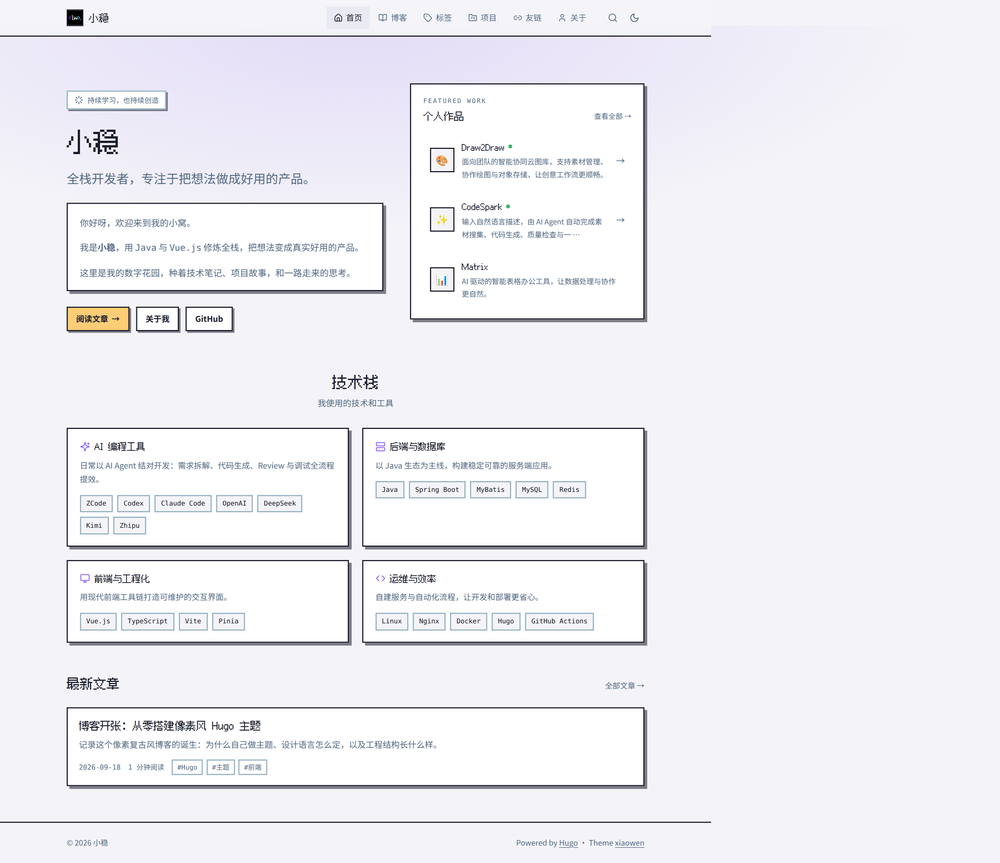
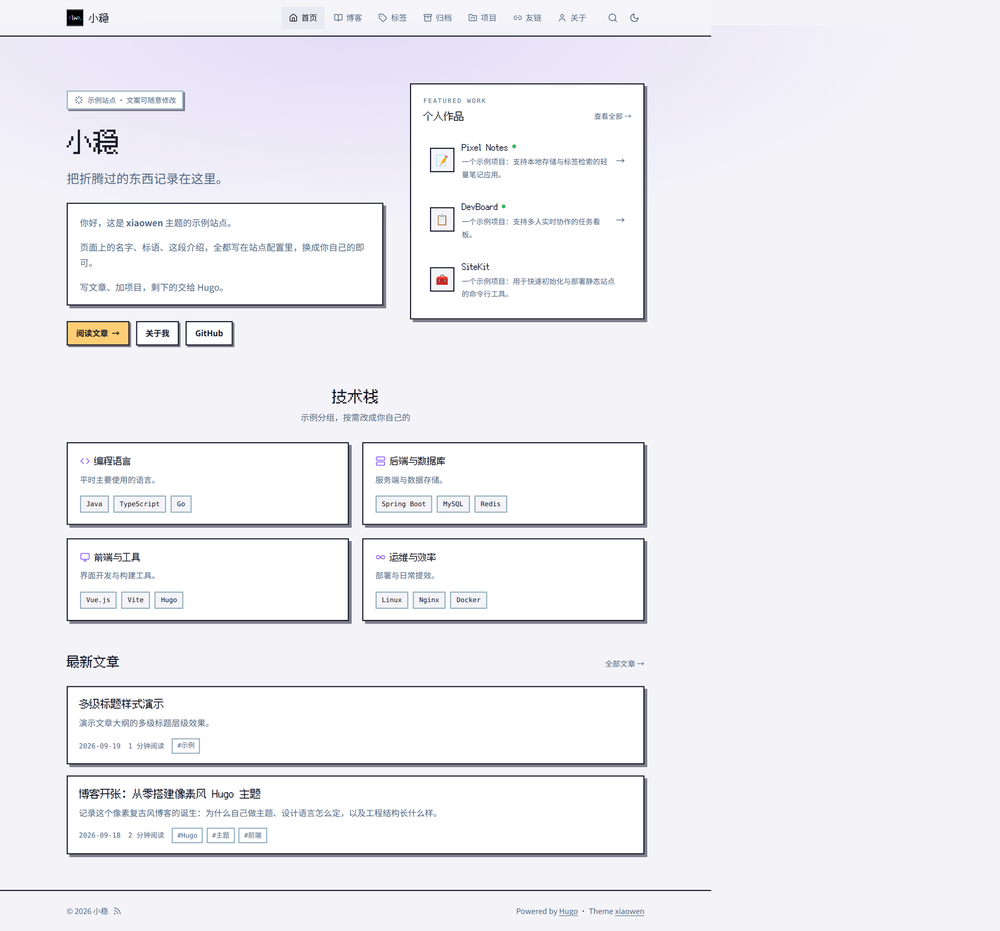
chore: 仓库正规化（文档/元信息/模板/截图）
- theme.toml 补全元信息（除 license）
- 新增 CONTRIBUTING.md、CHANGELOG.md、.editorconfig
- 新增 .github Issue / PR 模板
- README 截图按原创示例内容重新生成，并补充归档/搜索截图

diff --git a/README.md b/README.md
@@ -5,9 +5,13 @@
 ![首页 · 亮色](images/screenshot-home-light.png)
 ![首页 · 暗色](images/screenshot-home-dark.png)
 
-| 项目 | 文章 | 移动端 |
+| 项目 | 文章 | 归档 |
 |---|---|---|
-| ![项目](images/screenshot-projects.png) | ![文章](images/screenshot-post.png) | ![移动端](images/screenshot-mobile.png) |
+| ![项目](images/screenshot-projects.png) | ![文章](images/screenshot-post.png) | ![归档](images/screenshot-archive.png) |
+
+| 搜索 | 移动端 |
+|---|---|
+| ![搜索](images/screenshot-search.png) | ![移动端](images/screenshot-mobile.png) |
 
 ## 特性
 
@@ -21,7 +25,7 @@
 - **Markdown 渲染钩子**：图片懒加载 + 图注、外链自动新窗口、标题锚点链接
 - **站内搜索**（覆盖文章与项目，纯前端、无外部依赖）
 - 标签云与标签页、**归档页**（按年份分组）、**404 页面**、robots.txt、页脚 **RSS 订阅**图标
-- SEO：JSON-LD（BlogPosting / 面包屑）、OG / Twitter、RSS、sitemap
+- SEO：JSON-LD（BlogPosting / 面包屑）、**OG / Twitter 分享图（站点默认 + 文章封面）**、RSS、sitemap
 - 无障碍：跳过导航（skip link）、统一焦点样式
 - CSS 自定义属性驱动，改一个色值全站生效
 - 样式与脚本经 Hugo Pipes 拼接、压缩、加指纹，无需 npm / 构建工具
@@ -197,6 +201,7 @@ themes/xiaowen/
 
   [params.assets]
     pixelFont = "https://cdn.jsdelivr.net/npm/@fontsource/fusion-pixel-12px-proportional-sc@5.3.0/index.css"
+    ogImage = "/images/og-default.png"    # 站点默认分享图（1200x630）
 
   [params.social]
     github = "https://github.com/LittleWin8"   # 有值才在 Hero 显示按钮
@@ -235,6 +240,15 @@ themes/xiaowen/
 ```
 
 `params.works.count` 控制首页入口展示数量；`params.techstack` 设 `enable = false` 或删除，技术栈整块隐藏。
+
+## 分享图（OG）
+
+分享到微信 / X / Telegram 等地方时的缩略图，分两层：
+
+- **站点默认**：`params.assets.ogImage`（一张 1200×630 的图，放站点 `static/` 下，填路径如 `/images/og-default.png`）。
+- **文章级**：文章 front matter 写 `cover: "images/xxx.png"`，主题会**自动裁剪成 1200×630** 并输出 `og:image` / `twitter:image` / 宽高。
+  - `cover` 放页面包（和 `.md` 同目录）或 `assets/` 下会被处理；填绝对网址/`/images/...` 则原样使用。
+  - 也兼容 `images: ["..."]`。
 
 ## 归档页 / 搜索页
 

diff --git a/CONTRIBUTING.md b/CONTRIBUTING.md
@@ -1,0 +1,40 @@
+# 贡献指南（Contributing）
+
+感谢你对 xiaowen 主题感兴趣！欢迎提交 Issue 和 Pull Request。
+
+## 本地开发
+
+主题自带一个可运行的示例站 `exampleSite/`，无需准备任何内容：
+
+```bash
+git clone https://github.com/LittleWin8/xiaowen.git
+cd xiaowen/exampleSite
+hugo server --themesDir ../..
+```
+
+打开 http://localhost:1313 即可预览。
+
+> 本主题样式/脚本走 Hugo Pipes，**无需 Node.js / npm**。仅需 Hugo ≥ 0.146（extended 非必需）。
+
+## 目录说明
+
+- `layouts/`：模板（`_default/`、`partials/`、`projects/`、`_markup/` 渲染钩子）
+- `assets/css/`：纯 CSS，按层拆分（tokens / base / layout / components / markdown / home / projects / links / print）
+- `assets/js/`：原生 JS（明暗切换、菜单、代码复制、搜索）
+- `hugo.yaml`：主题**默认配置**（通用值，勿放个人内容）
+- `exampleSite/`：示例站点（演示 + 配置模板）
+
+> ⚠ CSS 文件是**纯 CSS**，请勿使用 `//` 注释（SCSS 语法，会破坏规则），用 `/* */`。
+
+## 提交规范
+
+- 提交信息尽量清晰，推荐 `feat:` / `fix:` / `docs:` / `style:` / `refactor:` 前缀
+- 一次 PR 只做一件事，附上改动说明与截图（涉及界面时）
+- 提交前请用 `exampleSite` 本地构建通过：
+  ```bash
+  cd exampleSite && hugo --themesDir ../.. --panicOnWarning
+  ```
+
+## 设计来源说明
+
+本主题的视觉风格参考了若干像素风个人站点，**代码与素材均为独立实现**，未使用任何第三方站点的图片、Logo 或文案。若你贡献设计相关内容，请同样确保不引入他人受版权保护的素材。

diff --git a/CHANGELOG.md b/CHANGELOG.md
@@ -1,0 +1,24 @@
+# 更新日志
+
+本项目使用 [语义化版本](https://semver.org/lang/zh-CN/)。格式参考 [Keep a Changelog](https://keepachangelog.com/zh-CN/1.1.0/)。
+
+## [Unreleased]
+
+## [0.1.0] - 2026-09-19
+
+首个版本。
+
+### 新增
+
+- 明暗主题切换（跟随系统、无闪烁），像素复古风格设计
+- 首页：双栏 Hero、个人信息面板、个人作品入口、技术栈（可开关）、最新文章
+- 项目：`/projects/` 列表 + 详情页，`online` 控制徽章、悬浮与在线体验按钮
+- 文章：右侧粘性目录（大纲，支持多级）、标签、上下篇、代码块一键复制、相关文章、更新时间
+- 站内搜索（覆盖文章与项目，纯前端无依赖）
+- 归档页（按年份分组）、友链页、404 页面、robots.txt
+- Markdown 渲染钩子：图片懒加载 + 图注 + 响应式 `srcset`、外链新窗口、标题锚点
+- SEO：JSON-LD、OG / Twitter 分享图（站点默认 + 文章封面）、RSS、sitemap
+- 无障碍：对比度达标、skip link、`prefers-reduced-motion`、无 JS 时导航兜底
+- i18n（中/英）、响应式与移动端折叠菜单
+- 配置集中在主题 `hugo.yaml`（通用默认）+ 站点 `params`（个性化）
+- 附 `exampleSite` 示例站点

diff --git a/.github/PULL_REQUEST_TEMPLATE.md b/.github/PULL_REQUEST_TEMPLATE.md
@@ -1,0 +1,18 @@
+## 改动内容
+
+<!-- 这个 PR 做了什么 -->
+
+## 关联 Issue
+
+<!-- 例如 Closes #12 -->
+
+## 截图
+
+<!-- 涉及界面改动时附上前后对比 -->
+
+## 自查
+
+- [ ] 用 exampleSite 本地构建通过：`cd exampleSite && hugo --themesDir ../.. --panicOnWarning`
+- [ ] CSS 未使用 `//` 注释（纯 CSS）
+- [ ] 未引入第三方受版权保护的素材
+- [ ] 相关文档（README 等）已同步更新

diff --git a/.github/ISSUE_TEMPLATE/bug_report.md b/.github/ISSUE_TEMPLATE/bug_report.md
@@ -1,0 +1,30 @@
+---
+name: Bug 报告
+about: 报告一个问题，帮助改进主题
+title: "[Bug] "
+labels: bug
+---
+
+## 环境
+
+- Hugo 版本（`hugo version`）：
+- 主题版本 / commit：
+- 浏览器 / 系统：
+
+## 问题描述
+
+<!-- 清楚、简洁地描述问题 -->
+
+## 复现步骤
+
+1.
+2.
+3.
+
+## 期望行为
+
+<!-- 你期望发生什么 -->
+
+## 截图 / 日志
+
+<!-- 有则附上 -->

diff --git a/.github/ISSUE_TEMPLATE/feature_request.md b/.github/ISSUE_TEMPLATE/feature_request.md
@@ -1,0 +1,22 @@
+---
+name: 功能建议
+about: 提议一个新功能或改进
+title: "[Feature] "
+labels: enhancement
+---
+
+## 需求背景
+
+<!-- 你遇到了什么问题 / 想要什么场景 -->
+
+## 期望方案
+
+<!-- 你希望主题怎么做 -->
+
+## 备选方案
+
+<!-- 可选 -->
+
+## 补充说明
+
+<!-- 截图 / 参考链接等 -->
